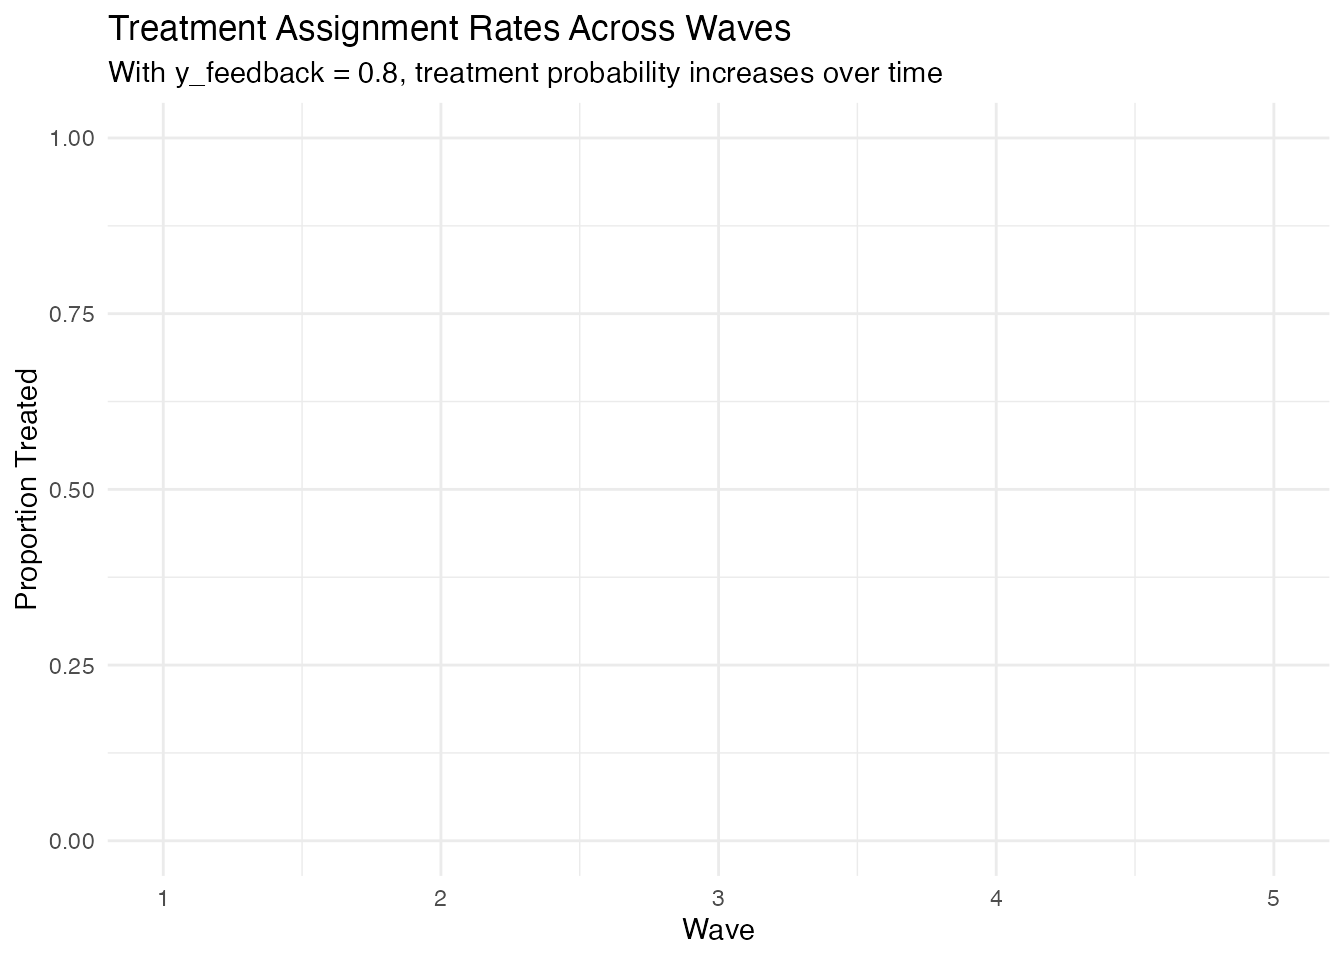
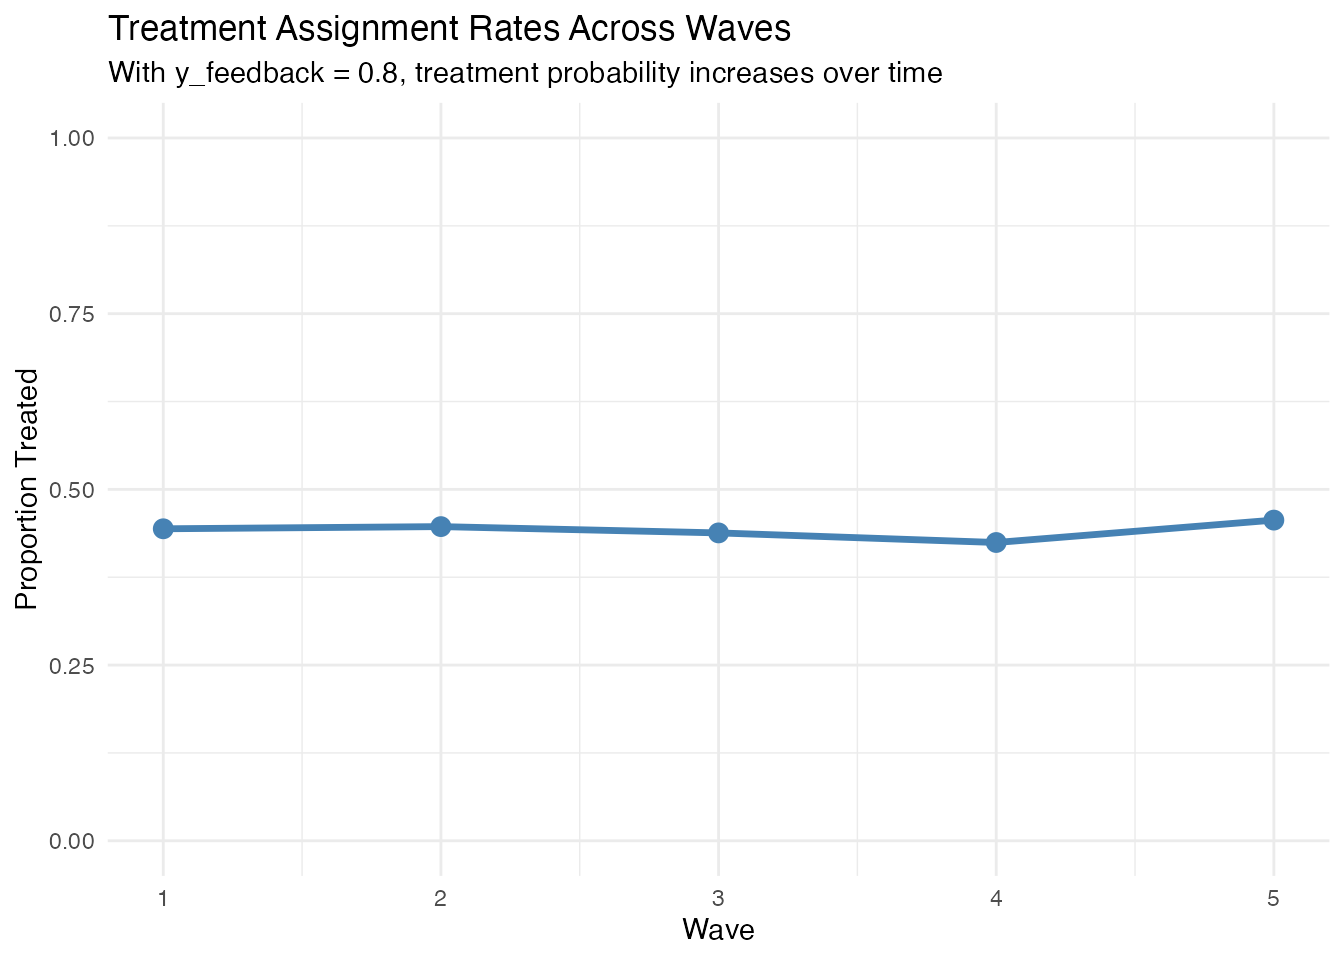
fix: improve y_feedback demonstration in simulation vignette
- Add comparison between simulations with and without feedback
- Show both patterns on same plot for clarity
- Update text to accurately describe y_feedback behavior
- Add diagnostic output to show actual treatment rates

Changed region(s): [[0.0938, 0.5312, 0.9688, 0.5938]]

diff --git a/docs/articles/margot-simulation.html b/docs/articles/margot-simulation.html
@@ -230,7 +230,7 @@ development)</td>
 <span><span class="co">#&gt;  $ B9: num [1:500] -1.0513 0.0444 0.6933 0.0259 -0.7786 ...</span></span>
 <span><span class="co">#&gt;  - attr(*, "margot_meta")=List of 2</span></span>
 <span><span class="co">#&gt;   ..$ args     : language margot_simulate(n = 500, waves = 3, seed = 2025)</span></span>
-<span><span class="co">#&gt;   ..$ timestamp: POSIXct[1:1], format: "2025-06-09 01:55:08"</span></span>
+<span><span class="co">#&gt;   ..$ timestamp: POSIXct[1:1], format: "2025-06-09 02:02:53"</span></span>
 <span></span>
 <span><span class="co"># summarize treatment and outcome</span></span>
 <span><span class="fu"><a href="https://rdrr.io/r/base/summary.html" class="external-link">summary</a></span><span class="op">(</span><span class="va">basic_dat</span><span class="op">[</span><span class="fu"><a href="https://rdrr.io/r/base/c.html" class="external-link">c</a></span><span class="op">(</span><span class="st">"t1_A1"</span>, <span class="st">"t2_A1"</span>, <span class="st">"t3_A1"</span>, <span class="st">"t4_Y"</span><span class="op">)</span><span class="op">]</span><span class="op">)</span></span>
@@ -289,35 +289,30 @@ outcomes influence future treatment uptake. Activate this with
 <span>  n           <span class="op">=</span> <span class="fl">2000</span>,</span>
 <span>  waves       <span class="op">=</span> <span class="fl">5</span>,</span>
 <span>  y_feedback  <span class="op">=</span> <span class="fl">0.8</span>,   <span class="co"># strong Y → A dependency</span></span>
-<span>  covar_feedback <span class="op">=</span> <span class="fl">0.3</span>, <span class="co"># optional A → L feedback</span></span>
+<span>  params      <span class="op">=</span> <span class="fu"><a href="https://rdrr.io/r/base/list.html" class="external-link">list</a></span><span class="op">(</span>exp_L1_coef <span class="op">=</span> <span class="fl">0.3</span><span class="op">)</span>, <span class="co"># optional A → L feedback</span></span>
 <span>  wide        <span class="op">=</span> <span class="cn">TRUE</span>,  <span class="co"># use wide format for now</span></span>
 <span>  seed        <span class="op">=</span> <span class="fl">101</span></span>
-<span><span class="op">)</span></span>
-<span><span class="co">#&gt; Warning in margot_simulate(n = 2000, waves = 5, y_feedback = 0.8,</span></span>
-<span><span class="co">#&gt; covar_feedback = 0.3, : `covar_feedback` is deprecated; use params$exp_L1_coef</span></span>
-<span><span class="co">#&gt; instead.</span></span></code></pre></div>
+<span><span class="op">)</span></span></code></pre></div>
 <p>Visualise treatment rates by examining how previous outcomes affect
 treatment:</p>
 <div class="sourceCode" id="cb7"><pre class="downlit sourceCode r">
-<code class="sourceCode R"><span><span class="co"># With y_feedback, treatment rates should increase over time</span></span>
-<span><span class="co"># as the simulation progresses</span></span>
-<span><span class="va">treatment_trends</span> <span class="op">&lt;-</span> <span class="va">fb_dat</span> <span class="op"><a href="../reference/pipe.html">%&gt;%</a></span></span>
-<span>  <span class="fu"><a href="https://dplyr.tidyverse.org/reference/summarise.html" class="external-link">summarise</a></span><span class="op">(</span></span>
-<span>    wave_1 <span class="op">=</span> <span class="fu"><a href="https://rdrr.io/r/base/mean.html" class="external-link">mean</a></span><span class="op">(</span><span class="va">t1_A1</span><span class="op">)</span>,</span>
-<span>    wave_2 <span class="op">=</span> <span class="fu"><a href="https://rdrr.io/r/base/mean.html" class="external-link">mean</a></span><span class="op">(</span><span class="va">t2_A1</span><span class="op">)</span>,</span>
-<span>    wave_3 <span class="op">=</span> <span class="fu"><a href="https://rdrr.io/r/base/mean.html" class="external-link">mean</a></span><span class="op">(</span><span class="va">t3_A1</span><span class="op">)</span>,</span>
-<span>    wave_4 <span class="op">=</span> <span class="fu"><a href="https://rdrr.io/r/base/mean.html" class="external-link">mean</a></span><span class="op">(</span><span class="va">t4_A1</span><span class="op">)</span>,</span>
-<span>    wave_5 <span class="op">=</span> <span class="fu"><a href="https://rdrr.io/r/base/mean.html" class="external-link">mean</a></span><span class="op">(</span><span class="va">t5_A1</span><span class="op">)</span></span>
-<span>  <span class="op">)</span> <span class="op"><a href="../reference/pipe.html">%&gt;%</a></span></span>
+<code class="sourceCode R"><span><span class="co"># Extract treatment rates across waves</span></span>
+<span><span class="co"># The exposure columns follow the pattern t0_A1, t1_A1, t2_A1, etc.</span></span>
+<span><span class="va">treatment_data</span> <span class="op">&lt;-</span> <span class="va">fb_dat</span> <span class="op"><a href="../reference/pipe.html">%&gt;%</a></span></span>
+<span>  <span class="fu"><a href="https://dplyr.tidyverse.org/reference/select.html" class="external-link">select</a></span><span class="op">(</span><span class="fu"><a href="https://tidyselect.r-lib.org/reference/starts_with.html" class="external-link">starts_with</a></span><span class="op">(</span><span class="st">"t"</span><span class="op">)</span> <span class="op">&amp;</span> <span class="fu"><a href="https://tidyselect.r-lib.org/reference/starts_with.html" class="external-link">ends_with</a></span><span class="op">(</span><span class="st">"_A1"</span><span class="op">)</span><span class="op">)</span> <span class="op"><a href="../reference/pipe.html">%&gt;%</a></span></span>
+<span>  <span class="fu"><a href="https://dplyr.tidyverse.org/reference/summarise.html" class="external-link">summarise</a></span><span class="op">(</span><span class="fu"><a href="https://dplyr.tidyverse.org/reference/across.html" class="external-link">across</a></span><span class="op">(</span><span class="fu"><a href="https://tidyselect.r-lib.org/reference/everything.html" class="external-link">everything</a></span><span class="op">(</span><span class="op">)</span>, <span class="op">~</span> <span class="fu"><a href="https://rdrr.io/r/base/mean.html" class="external-link">mean</a></span><span class="op">(</span><span class="va">.x</span>, na.rm <span class="op">=</span> <span class="cn">TRUE</span><span class="op">)</span><span class="op">)</span><span class="op">)</span> <span class="op"><a href="../reference/pipe.html">%&gt;%</a></span></span>
 <span>  <span class="fu">tidyr</span><span class="fu">::</span><span class="fu"><a href="https://tidyr.tidyverse.org/reference/pivot_longer.html" class="external-link">pivot_longer</a></span><span class="op">(</span></span>
 <span>    cols <span class="op">=</span> <span class="fu"><a href="https://tidyselect.r-lib.org/reference/everything.html" class="external-link">everything</a></span><span class="op">(</span><span class="op">)</span>,</span>
-<span>    names_to <span class="op">=</span> <span class="st">"wave"</span>,</span>
-<span>    values_to <span class="op">=</span> <span class="st">"prop_treated"</span>,</span>
-<span>    names_prefix <span class="op">=</span> <span class="st">"wave_"</span></span>
+<span>    names_to <span class="op">=</span> <span class="st">"wave_var"</span>,</span>
+<span>    values_to <span class="op">=</span> <span class="st">"prop_treated"</span></span>
 <span>  <span class="op">)</span> <span class="op"><a href="../reference/pipe.html">%&gt;%</a></span></span>
-<span>  <span class="fu"><a href="https://dplyr.tidyverse.org/reference/mutate.html" class="external-link">mutate</a></span><span class="op">(</span>wave <span class="op">=</span> <span class="fu"><a href="https://rdrr.io/r/base/numeric.html" class="external-link">as.numeric</a></span><span class="op">(</span><span class="va">wave</span><span class="op">)</span><span class="op">)</span></span>
+<span>  <span class="fu"><a href="https://dplyr.tidyverse.org/reference/mutate.html" class="external-link">mutate</a></span><span class="op">(</span></span>
+<span>    wave <span class="op">=</span> <span class="fu"><a href="https://rdrr.io/r/base/numeric.html" class="external-link">as.numeric</a></span><span class="op">(</span><span class="fu"><a href="https://rdrr.io/r/base/grep.html" class="external-link">sub</a></span><span class="op">(</span><span class="st">"t([0-9]+)_A1"</span>, <span class="st">"\\1"</span>, <span class="va">wave_var</span><span class="op">)</span><span class="op">)</span></span>
+<span>  <span class="op">)</span> <span class="op"><a href="../reference/pipe.html">%&gt;%</a></span></span>
+<span>  <span class="fu"><a href="https://dplyr.tidyverse.org/reference/filter.html" class="external-link">filter</a></span><span class="op">(</span><span class="va">wave</span> <span class="op">&gt;</span> <span class="fl">0</span><span class="op">)</span>  <span class="co"># Exclude baseline (t0)</span></span>
 <span></span>
-<span><span class="fu"><a href="https://ggplot2.tidyverse.org/reference/ggplot.html" class="external-link">ggplot</a></span><span class="op">(</span><span class="va">treatment_trends</span>, <span class="fu"><a href="https://ggplot2.tidyverse.org/reference/aes.html" class="external-link">aes</a></span><span class="op">(</span>x <span class="op">=</span> <span class="va">wave</span>, y <span class="op">=</span> <span class="va">prop_treated</span><span class="op">)</span><span class="op">)</span> <span class="op">+</span></span>
+<span><span class="co"># Plot treatment rates</span></span>
+<span><span class="fu"><a href="https://ggplot2.tidyverse.org/reference/ggplot.html" class="external-link">ggplot</a></span><span class="op">(</span><span class="va">treatment_data</span>, <span class="fu"><a href="https://ggplot2.tidyverse.org/reference/aes.html" class="external-link">aes</a></span><span class="op">(</span>x <span class="op">=</span> <span class="va">wave</span>, y <span class="op">=</span> <span class="va">prop_treated</span><span class="op">)</span><span class="op">)</span> <span class="op">+</span></span>
 <span>  <span class="fu"><a href="https://ggplot2.tidyverse.org/reference/geom_path.html" class="external-link">geom_line</a></span><span class="op">(</span>linewidth <span class="op">=</span> <span class="fl">1.2</span>, color <span class="op">=</span> <span class="st">"steelblue"</span><span class="op">)</span> <span class="op">+</span></span>
 <span>  <span class="fu"><a href="https://ggplot2.tidyverse.org/reference/geom_point.html" class="external-link">geom_point</a></span><span class="op">(</span>size <span class="op">=</span> <span class="fl">3</span>, color <span class="op">=</span> <span class="st">"steelblue"</span><span class="op">)</span> <span class="op">+</span></span>
 <span>  <span class="fu"><a href="https://ggplot2.tidyverse.org/reference/labs.html" class="external-link">labs</a></span><span class="op">(</span></span>
@@ -327,11 +322,7 @@ treatment:</p>
 <span>    y <span class="op">=</span> <span class="st">"Proportion Treated"</span></span>
 <span>  <span class="op">)</span> <span class="op">+</span></span>
 <span>  <span class="fu"><a href="https://ggplot2.tidyverse.org/reference/ggtheme.html" class="external-link">theme_minimal</a></span><span class="op">(</span><span class="op">)</span> <span class="op">+</span></span>
-<span>  <span class="fu"><a href="https://ggplot2.tidyverse.org/reference/lims.html" class="external-link">ylim</a></span><span class="op">(</span><span class="fl">0</span>, <span class="fl">1</span><span class="op">)</span></span>
-<span><span class="co">#&gt; Warning: Removed 5 rows containing missing values or values outside the scale range</span></span>
-<span><span class="co">#&gt; (`geom_line()`).</span></span>
-<span><span class="co">#&gt; Warning: Removed 5 rows containing missing values or values outside the scale range</span></span>
-<span><span class="co">#&gt; (`geom_point()`).</span></span></code></pre></div>
+<span>  <span class="fu"><a href="https://ggplot2.tidyverse.org/reference/scale_continuous.html" class="external-link">scale_y_continuous</a></span><span class="op">(</span>limits <span class="op">=</span> <span class="fu"><a href="https://rdrr.io/r/base/c.html" class="external-link">c</a></span><span class="op">(</span><span class="fl">0</span>, <span class="fl">1</span><span class="op">)</span><span class="op">)</span></span></code></pre></div>
 <p><img src="margot-simulation_files/figure-html/feedback-plot-1.png" alt="Treatment probability trends across waves" width="672"></p>
 <p>The increasing treatment probability across waves demonstrates how
 the y_feedback parameter induces time-varying confounding, where past
